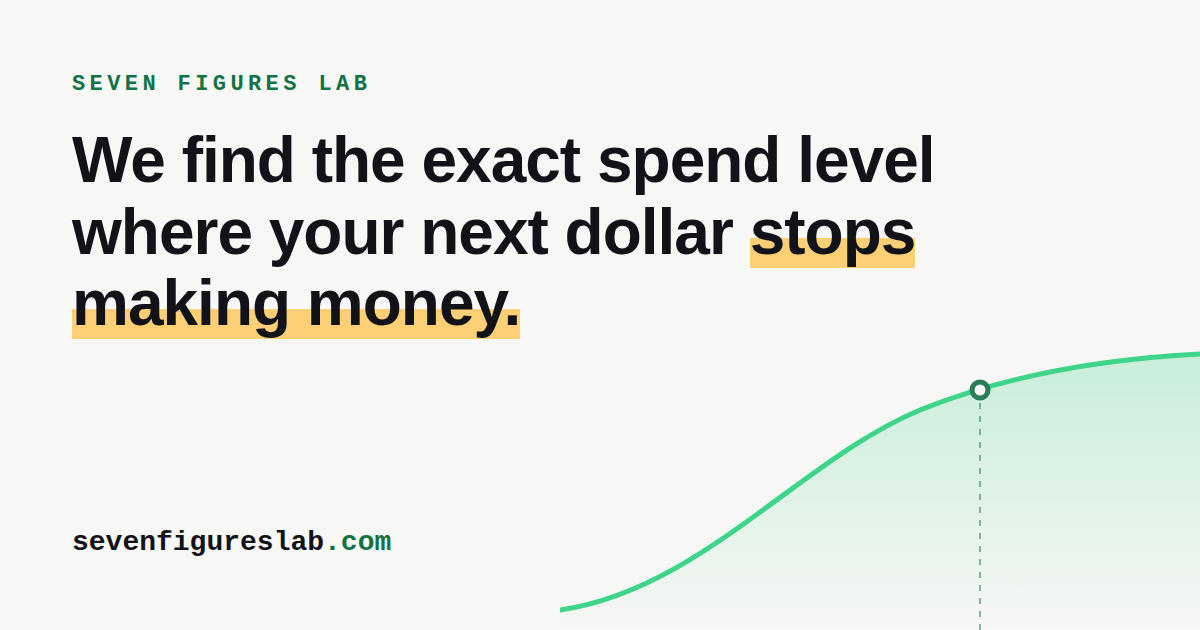
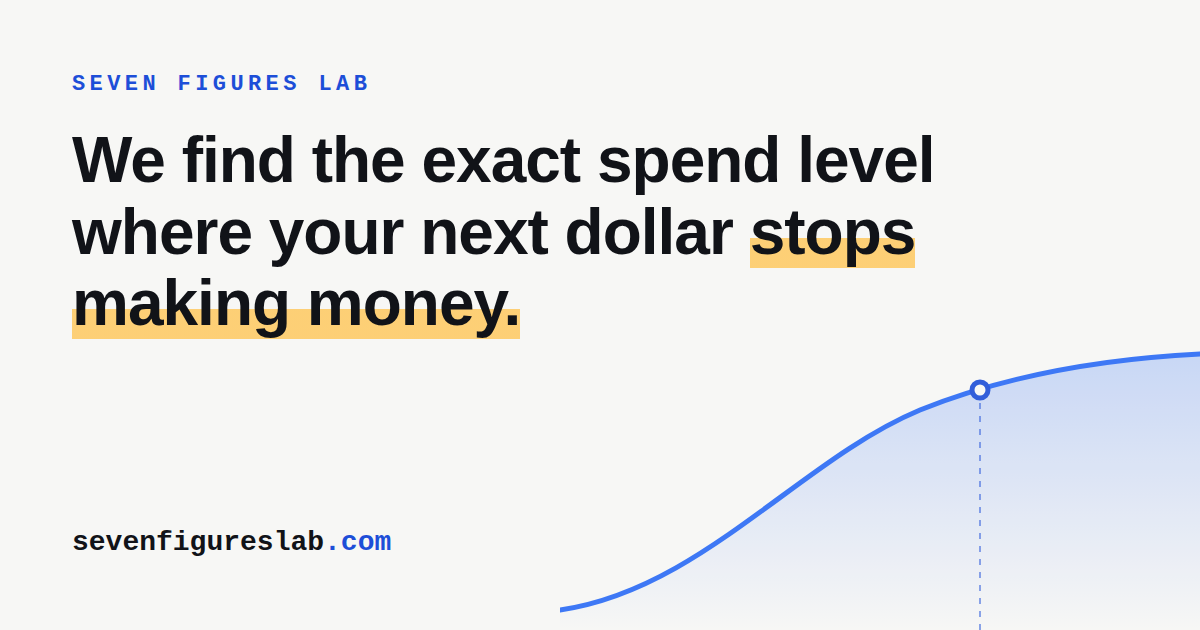
feat(kb-color-pass): royal-blue palette site-wide, audit prices removed, contrast-safe button/dark-text variants

diff --git a/src/styles/global.css b/src/styles/global.css
@@ -21,10 +21,12 @@
 
 @theme {
   --color-charcoal: #111318;
-  --color-accent: #2ad17e;
-  /* Contrast-safe accent for text on offwhite sections (#2ad17e fails WCAG on light bg) */
-  --color-accent-deep: #127246;
+  --color-accent: #2a6bf5;
+  /* Contrast-safe accent for text on offwhite sections (#2a6bf5 fails WCAG on light bg) */
+  --color-accent-deep: #1D4ED8;
   --color-offwhite: #f7f7f5;
+  --color-accent-lite: #8ab0ff;
+  --color-green: #2ad17e;
   --color-amber: #ffc24b;
   --color-coral: #ff6b57;
   --color-sky: #38bdf8;
@@ -78,8 +80,8 @@
   }
 
   ::selection {
-    background-color: var(--color-accent);
-    color: var(--color-charcoal);
+    background-color: var(--color-accent-deep);
+    color: var(--color-offwhite);
   }
 
   :focus-visible {
@@ -96,7 +98,7 @@
     inset: 0;
     pointer-events: none;
     background-image:
-      radial-gradient(640px 420px at 80% 25%, rgb(42 209 126 / 0.16), transparent 65%),
+      radial-gradient(640px 420px at 80% 25%, rgb(42 107 245 / 0.16), transparent 65%),
       radial-gradient(520px 360px at 8% 80%, rgb(255 194 75 / 0.18), transparent 60%),
       radial-gradient(420px 300px at 55% 110%, rgb(56 189 248 / 0.12), transparent 60%),
       linear-gradient(rgb(17 19 24 / 0.035) 1px, transparent 1px),
@@ -118,10 +120,10 @@
     letter-spacing: 0.2em;
     color: var(--color-accent-deep);
   }
-  /* On dark sections the bright accent is the contrast-safe one */
+  /* On dark sections a lighter blue is the contrast-safe one */
   .bg-charcoal .kicker,
   footer .kicker {
-    color: var(--color-accent);
+    color: var(--color-accent-lite);
   }
 
   /* Marker highlight for key headline phrases */

diff --git a/src/content/pages/audit.md b/src/content/pages/audit.md
@@ -1,13 +1,13 @@
 ---
 # DRAFT COPY — derived from mission/ICP/roadmap; replace with offer-doc wording on Ali's review.
 title: 'Profit Curve Audit — find the exact point your ad spend stops making money'
-description: 'A $299 flat-fee audit that plots your marginal ROAS curve, finds your ad-spend ceiling to the dollar, and hands you the plan to move it. Delivered in 5 days by a chartered-accountant-led team.'
+description: 'A flat-fee audit that plots your marginal ROAS curve, finds your ad-spend ceiling to the dollar, and hands you the plan to move it. Delivered in 5 days by a chartered-accountant-led team.'
 hero:
-  kicker: 'The Profit Curve Audit — $299 flat'
+  kicker: 'The Profit Curve Audit'
   heading: 'Find the exact point your ad spend *stops making money.*'
   lead: 'Somewhere between your current budget and the budget you want, your next dollar of ad spend quietly stops returning profit. We find that dollar. Then we show you how to move it higher.'
-  cta: 'Get the Audit — $299'
-  ctaNote: 'Flat fee. 5-day delivery. Walkthrough call included.'
+  cta: 'Get Your Audit'
+  ctaNote: 'Flat fee, quoted up front. 5-day delivery. Walkthrough call included.'
 deliverables:
   kicker: "What's in the audit"
   heading: 'Five deliverables. Zero screenshots of ROAS.'
@@ -25,13 +25,13 @@ deliverables:
 guarantee:
   kicker: 'The Ceiling Guarantee'
   heading: "If we can't find your ceiling, you don't pay."
-  body: "If the audit doesn't identify the specific spend level where your marginal returns die — backed by your own numbers — we refund the full $299 and you keep the report. [DRAFT — replace with verbatim guarantee from offer doc]"
+  body: "If the audit doesn't identify the specific spend level where your marginal returns die — backed by your own numbers — we refund the full fee and you keep the report. [DRAFT — replace with verbatim guarantee from offer doc]"
 howItWorks:
   kicker: 'How it works'
   heading: 'Pay today. See your curve in 5 days.'
   steps:
     - title: 'Pay'
-      body: 'Checkout takes two minutes through Stripe. Flat $299 — no call required first, no upsell on the other side of it.'
+      body: 'Checkout takes two minutes through Stripe. One flat fee — no call required first, no upsell on the other side of it.'
     - title: 'Connect accounts'
       body: 'Read-only access to your ad platforms and store data, or exports if you prefer. No passwords, revoke anytime.'
     - title: '5 days of analysis'
@@ -43,15 +43,15 @@ faq:
   heading: 'What founders ask before booking'
   items:
     - q: 'Why is the audit paid when agencies offer free audits?'
-      a: "Free audits are sales scripts with your logo on them. This is analyst work on your actual data — a deliverable you keep, priced so we can do it properly for accounts we may never work with again. $299 also filters for founders who are serious about fixing profitability, which keeps our delivery calendar fast."
+      a: "Free audits are sales scripts with your logo on them. This is analyst work on your actual data — a deliverable you keep, priced so we can do it properly for accounts we may never work with again. A paid audit also filters for founders who are serious about fixing profitability, which keeps our delivery calendar fast."
     - q: 'What access do you need?'
       a: "Read-only access to your ad accounts (Meta, Google) and your store's sales data (Shopify or Amazon), or clean exports if you'd rather not connect anything. No passwords, no write access, revoke the moment the audit is delivered."
     - q: 'What if my account is small?'
       a: "The curve math needs enough spend to be honest. The audit works best between roughly $3K and $50K/month in ad spend. Below that, we'll tell you before you pay — not after."
     - q: 'What happens after the walkthrough?'
-      a: "If we believe we can move your ceiling, you'll get a proposal and your $299 is credited against the first month. If we don't, we say so. The audit is complete on its own either way."
+      a: "If we believe we can move your ceiling, you'll get a proposal and your audit fee is credited against the first month. If we don't, we say so. The audit is complete on its own either way."
 finalCta:
   heading: 'Your ceiling already exists. The only question is whether you know the number.'
-  cta: 'Get the Audit — $299'
+  cta: 'Get Your Audit'
   ctaNote: '5-day delivery · Ceiling Guarantee · walkthrough call included'
 ---

diff --git a/src/content/pages/pricing.md b/src/content/pages/pricing.md
@@ -48,8 +48,8 @@ tiers:
       highlighted: false
 audit:
   kicker: 'The deep-dive'
-  heading: 'Profit Curve Audit — $299 one-off'
-  body: "Want the full diagnostic before (or instead of) a package? The audit plots your marginal ROAS curve from 90 days of data, finds your ad-spend ceiling to the dollar, and hands you the plan to move it — walkthrough call included. Credited against your first month if you continue with any package."
+  heading: 'The Profit Curve Audit — the deep-dive diagnostic'
+  body: "Want the full diagnostic before (or instead of) a package? The audit plots your marginal ROAS curve from 90 days of data, finds your ad-spend ceiling to the dollar, and hands you the plan to move it — walkthrough call included. Flat fee quoted up front; credited against your first month if you continue with any package."
   cta: 'Get the Audit'
 faq:
   kicker: 'Fair questions'
@@ -60,10 +60,10 @@ faq:
     - q: 'Am I locked into a contract?'
       a: 'No. Every package is a 30-day rolling agreement. Cancel any month, and every account we build — ads, analytics, tag manager — is created under your ownership from day one, so you keep everything.'
     - q: 'Which package fits me?'
-      a: "Rough guide by ad spend: under $3K/month → Launch. $3K–$10K → Growth. $10K–$50K → Scale. Not sure, or scaling past $50K? Start with the $299 audit and the numbers will tell you."
+      a: "Rough guide by ad spend: under $3K/month → Launch. $3K–$10K → Growth. $10K–$50K → Scale. Not sure, or scaling past $50K? Start with the audit and the numbers will tell you."
     - q: 'Do I need the audit first?'
-      a: "No — packages stand on their own. The audit is for founders who want the full ceiling diagnostic up front. If you take it and then start a package, the $299 is credited to your first month."
+      a: "No — packages stand on their own. The audit is for founders who want the full ceiling diagnostic up front. If you take it and then start a package, the audit fee is credited to your first month."
 finalCta:
   heading: 'Pick a package, or let the audit pick it for you.'
-  cta: 'Get the $299 Audit'
+  cta: 'Get Your Audit'
 ---

diff --git a/specs/features/kb-color-pass/plan.md b/specs/features/kb-color-pass/plan.md
@@ -1,0 +1,17 @@
+# Plan — KB Color Pass (blue palette + price removal)
+
+**Branch:** session branch · **Roadmap:** amendment to item 14 (Ali directed 2026-07-20 night: "replicate completely including color, just not prices; remove audit prices")
+**Status:** [x] planned  [x] implemented  [x] validated
+
+## Decisions
+- Palette moves to KlientBoost's color direction: **royal blue primary** on white, navy-leaning ink, **yellow marker highlights**, multicolor support chips. Color palettes aren't protectable; artwork/copy/logos are — none copied.
+- All visible "$299" audit pricing removed site-wide (CTAs, kickers, guarantee, FAQs, JSON-LD offer). Audit stays a product; price is discussed on the call. Package prices unchanged (Ali: "just not prices").
+- KB-style structure: full-bleed blue CTA band on home; honest stat strip (no fabricated reviews/logos/testimonials).
+
+## Approach
+Token-level swap: `--color-accent` → blue `#2a6bf5`, `--color-accent-deep` → `#1d4ed8`; green retired to a support chip color. Hardcoded brand hexes in Curve/Header/Footer/favicon/OG swapped to blue. Glow shadows re-tinted. Content edits strip prices. tech-stack.md brand v3.
+
+## Validation (2026-07-20 night)
+- [x] No visible "$299" anywhere in src (grep-verified; only the guarded analytics dataLayer keeps a value)
+- [x] Lighthouse: / 99-100/100/100 · /audit 100/100/100 · /pricing 100/100/100 · /services/google-ads 100/100/100 — zero contrast failures after white-on-blue button + accent-lite-on-dark fixes
+- [x] OG image + favicon regenerated in blue

diff --git a/specs/tech-stack.md b/specs/tech-stack.md
@@ -22,10 +22,10 @@
 - All copy lives in `src/content/` as markdown/MDX — copy edits must never require touching components
 - Env vars for GHL endpoint + GTM ID; nothing hardcoded
 
-## Brand constants (v2 — bright rebrand 2026-07-20, KlientBoost-inspired; v1 dark theme retired)
+## Brand constants (v3 — blue palette pass 2026-07-20 night, per Ali "replicate including color"; v2 green retired)
 - Light-first: background off-white `#F7F7F5`, ink charcoal `#111318`
-- Primary accent: electric green `#2AD17E` (buttons/graphics) with deep green `#127246` for accent TEXT on light bg (contrast)
-- Support brights (cards, blobs, highlights): amber `#FFC24B`, coral `#FF6B57`, sky `#38BDF8`, violet `#7C5CFF`
+- Primary accent: royal blue `#2A6BF5` (graphics) · deep blue `#1D4ED8` (buttons w/ white text, accent text on light) · light blue `#8AB0FF` (accent text on dark)
+- Support brights (cards, blobs, highlights): amber `#FFC24B` (headline marker), coral `#FF6B57`, sky `#38BDF8`, violet `#7C5CFF`, green `#2AD17E` (support only)
 - Dark charcoal retained as a contrast VARIANT (footer, highlighted pricing tier, optional dark sections)
 - Headline device: amber marker-highlight on key phrases (`.hl`)
 - Tone: energetic + conversion-focused, still numbers-over-adjectives. Inspired by KlientBoost's energy; zero copied assets/copy.

diff --git a/src/content/pages/home.md b/src/content/pages/home.md
@@ -6,7 +6,7 @@ hero:
   kicker: 'Performance marketing for ecom founders'
   heading: "ROAS dies every time you scale? *There's a curve that explains it.*"
   lead: "Every ad account has a ceiling — the spend level where the next dollar stops making money. Most founders find it by burning cash past it. We find it on a chart, to the dollar, then move it."
-  cta: 'Get the $299 Profit Curve Audit'
+  cta: 'Get Your Profit Curve Audit'
   ctaNote: '5-day delivery · Ceiling Guarantee'
   chart:
     ceilingLabel: 'your ceiling'
@@ -74,11 +74,11 @@ caseTeaser:
 pricingTeaser:
   kicker: 'Pricing'
   heading: 'Every engagement starts with the audit'
-  body: 'No retainer pitch before the numbers. The $299 audit finds your ceiling; if we can move it, retainers start from there — audit fee credited.'
+  body: 'No retainer pitch before the numbers. The audit finds your ceiling; if we can move it, packages start from there — audit fee credited.'
   cta: 'See pricing'
   href: '/pricing'
 finalCta:
   heading: 'Your next dollar of ad spend is either profit or a donation. Find out which.'
-  cta: 'Get the $299 Profit Curve Audit'
+  cta: 'Get Your Profit Curve Audit'
   href: '/audit'
 ---

diff --git a/src/content/pages/about.md b/src/content/pages/about.md
@@ -28,5 +28,5 @@ name:
   body: "Because the ceiling problem lives in the seven-figure range. Under ~$200K/year, ads either work or they don't. Past $3M, you have a finance team. In between — where most Shopify and Amazon founders actually are — every scaling decision is made half-blind. That's the lab's entire focus: the founders for whom finding one number on a curve is worth real money."
 finalCta:
   heading: 'See the methodology on your own numbers.'
-  cta: 'Get the $299 Audit'
+  cta: 'Get Your Audit'
 ---

diff --git a/src/content/pages/blog.md b/src/content/pages/blog.md
@@ -9,9 +9,9 @@ hero:
 empty:
   heading: 'Nothing published yet — on purpose.'
   body: "The first notes are in the audit queue. If you want them when they land, the fastest way is to book an audit — clients hear everything first on their walkthrough calls."
-  cta: 'Get the $299 Audit'
+  cta: 'Get Your Audit'
 post:
   backLabel: '← All notes'
   ctaHeading: 'See this methodology on your own numbers.'
-  ctaLabel: 'Get the $299 Profit Curve Audit'
+  ctaLabel: 'Get Your Profit Curve Audit'
 ---

diff --git a/specs/features/audit-page/validation.md b/specs/features/audit-page/validation.md
@@ -10,6 +10,7 @@
 - [x] 320px no overflow (headless sweep)
 
 ## DRAFT COPY — needs Ali's word-level review (standing approval: shipped as draft)
+- [x] All visible audit pricing removed site-wide per Ali (2026-07-20 night); audit fee now "quoted up front"
 - [ ] 5 deliverables vs offer doc
 - [ ] **Ceiling Guarantee wording — roadmap says verbatim; current text is Claude's draft**
 - [ ] FAQ answers (incl. "$3K–$50K/month sweet spot" claim from ICP)

diff --git a/src/content/case-studies/shopify-roas-ceiling.md b/src/content/case-studies/shopify-roas-ceiling.md
@@ -8,7 +8,7 @@ dek: 'Blended ROAS said keep scaling. The curve said the account had crossed its
 draft: true
 cta:
   heading: 'Want this analysis on your account?'
-  label: 'Get the $299 Profit Curve Audit'
+  label: 'Get Your Profit Curve Audit'
 metrics:
   - value: '$[X]/mo'
     label: 'ad spend at the time of analysis'
